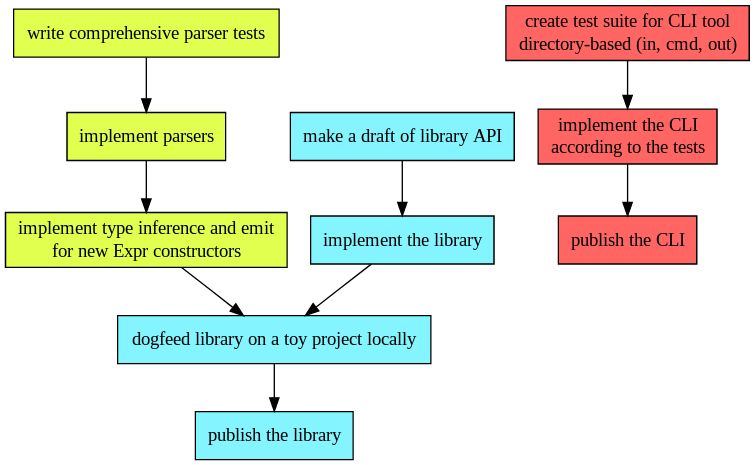
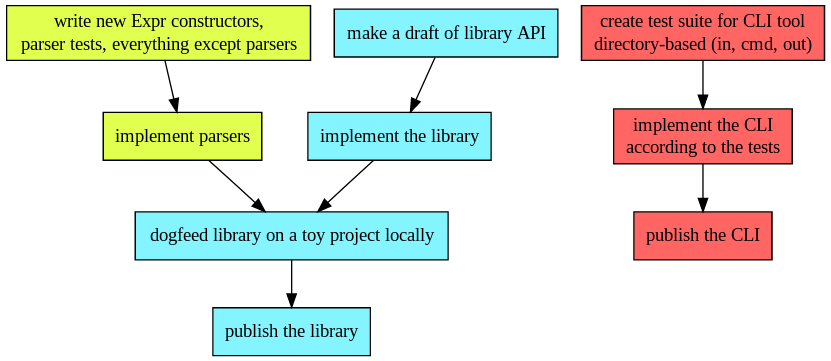
Make roadmap a bit more precise

diff --git a/README.md b/README.md
@@ -64,7 +64,7 @@ Oh God please yes! :heart: Feel free to look around the [<kbd>help wanted</kbd>]
 ## Roadmap
 
 <p align="center">
-<img src="https://raw.github.com/elm-in-elm/compiler/master/assets/roadmap.png" alt="Roadmap" width="755" height="465">
+<img src="https://raw.github.com/elm-in-elm/compiler/master/assets/roadmap.png" alt="Roadmap" width="831" height="361">
 </p>
 
 
